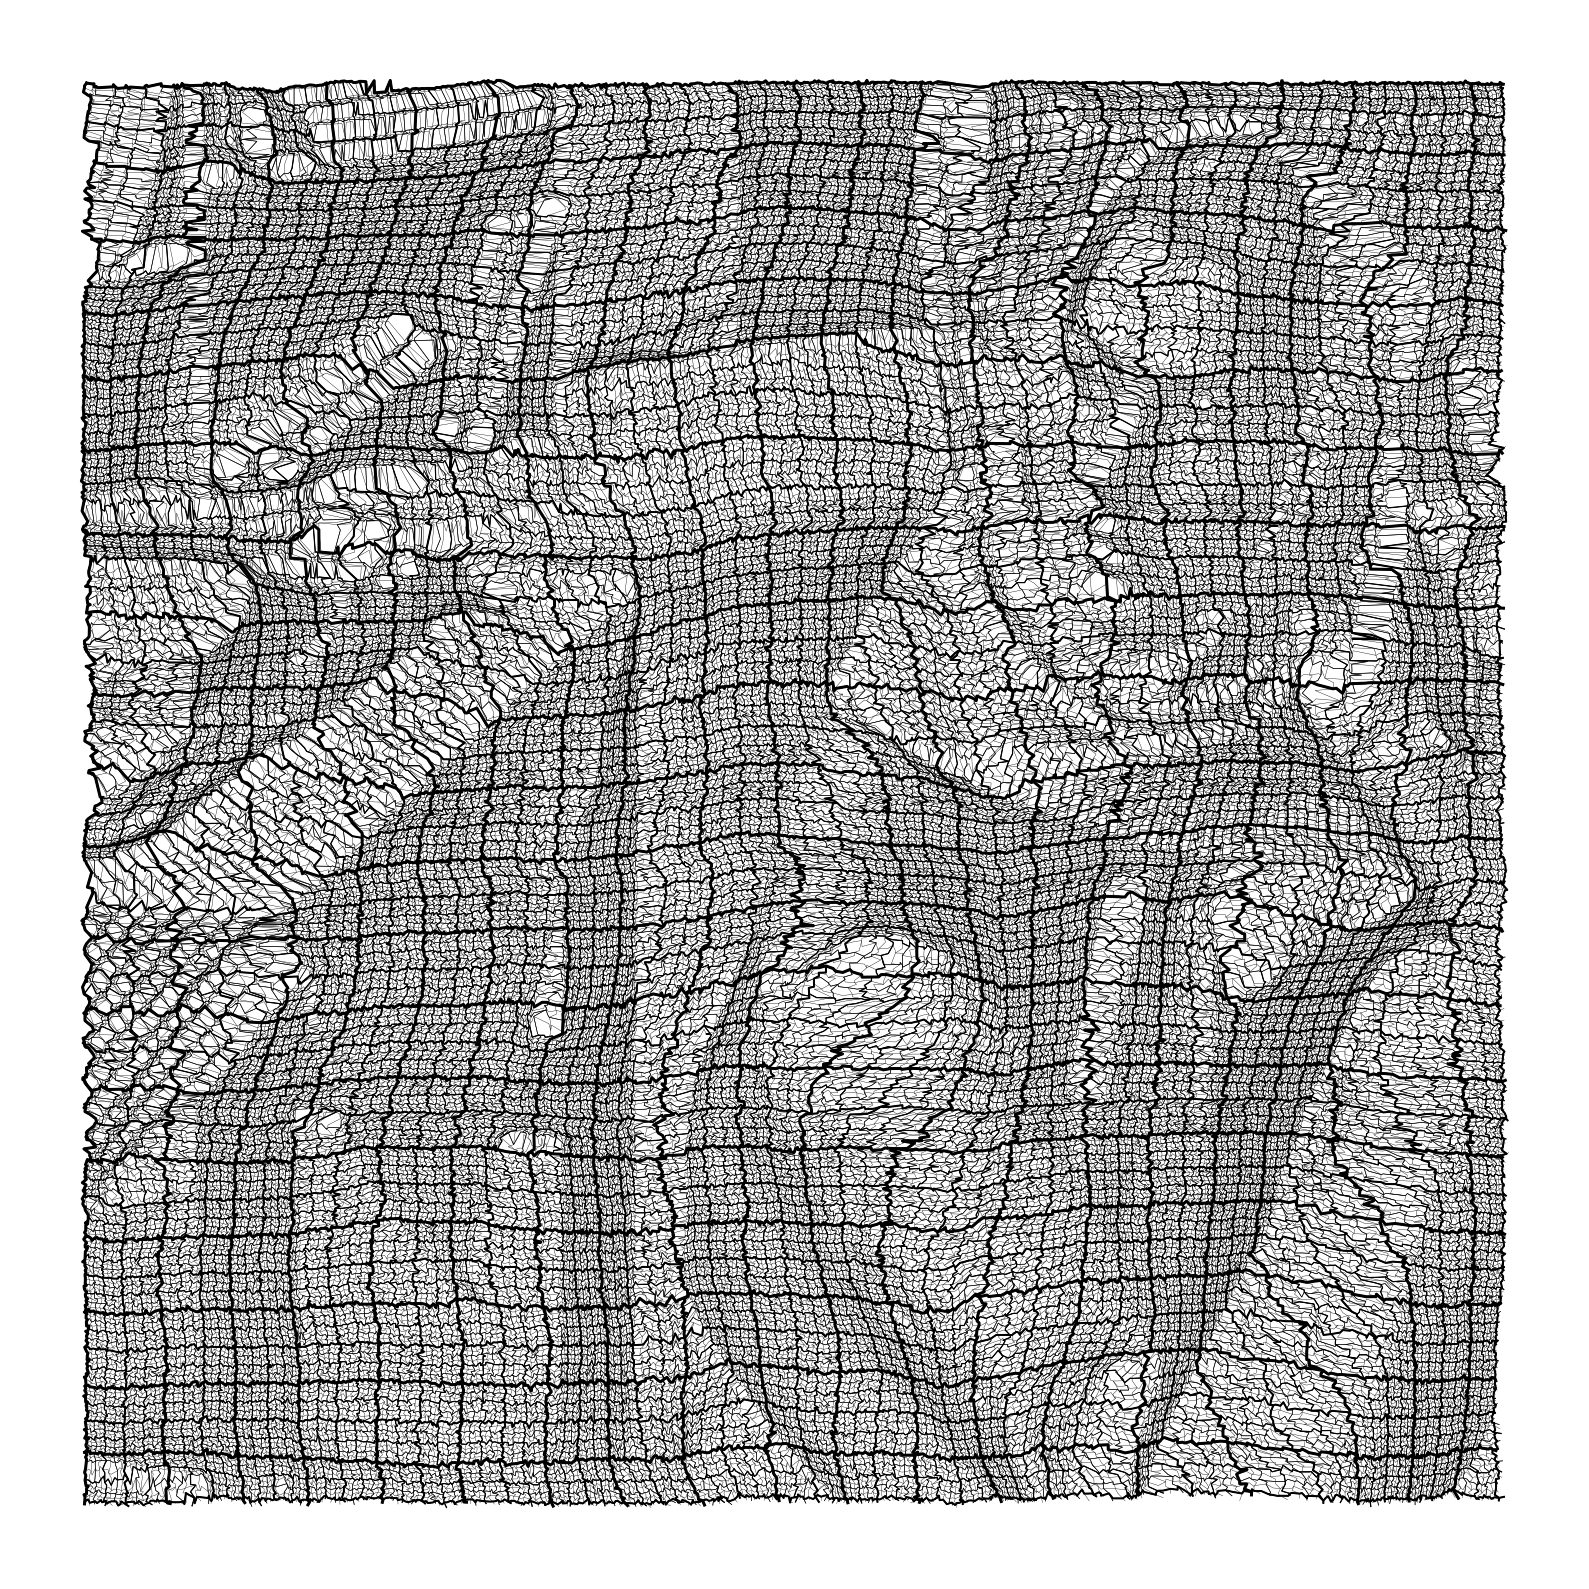
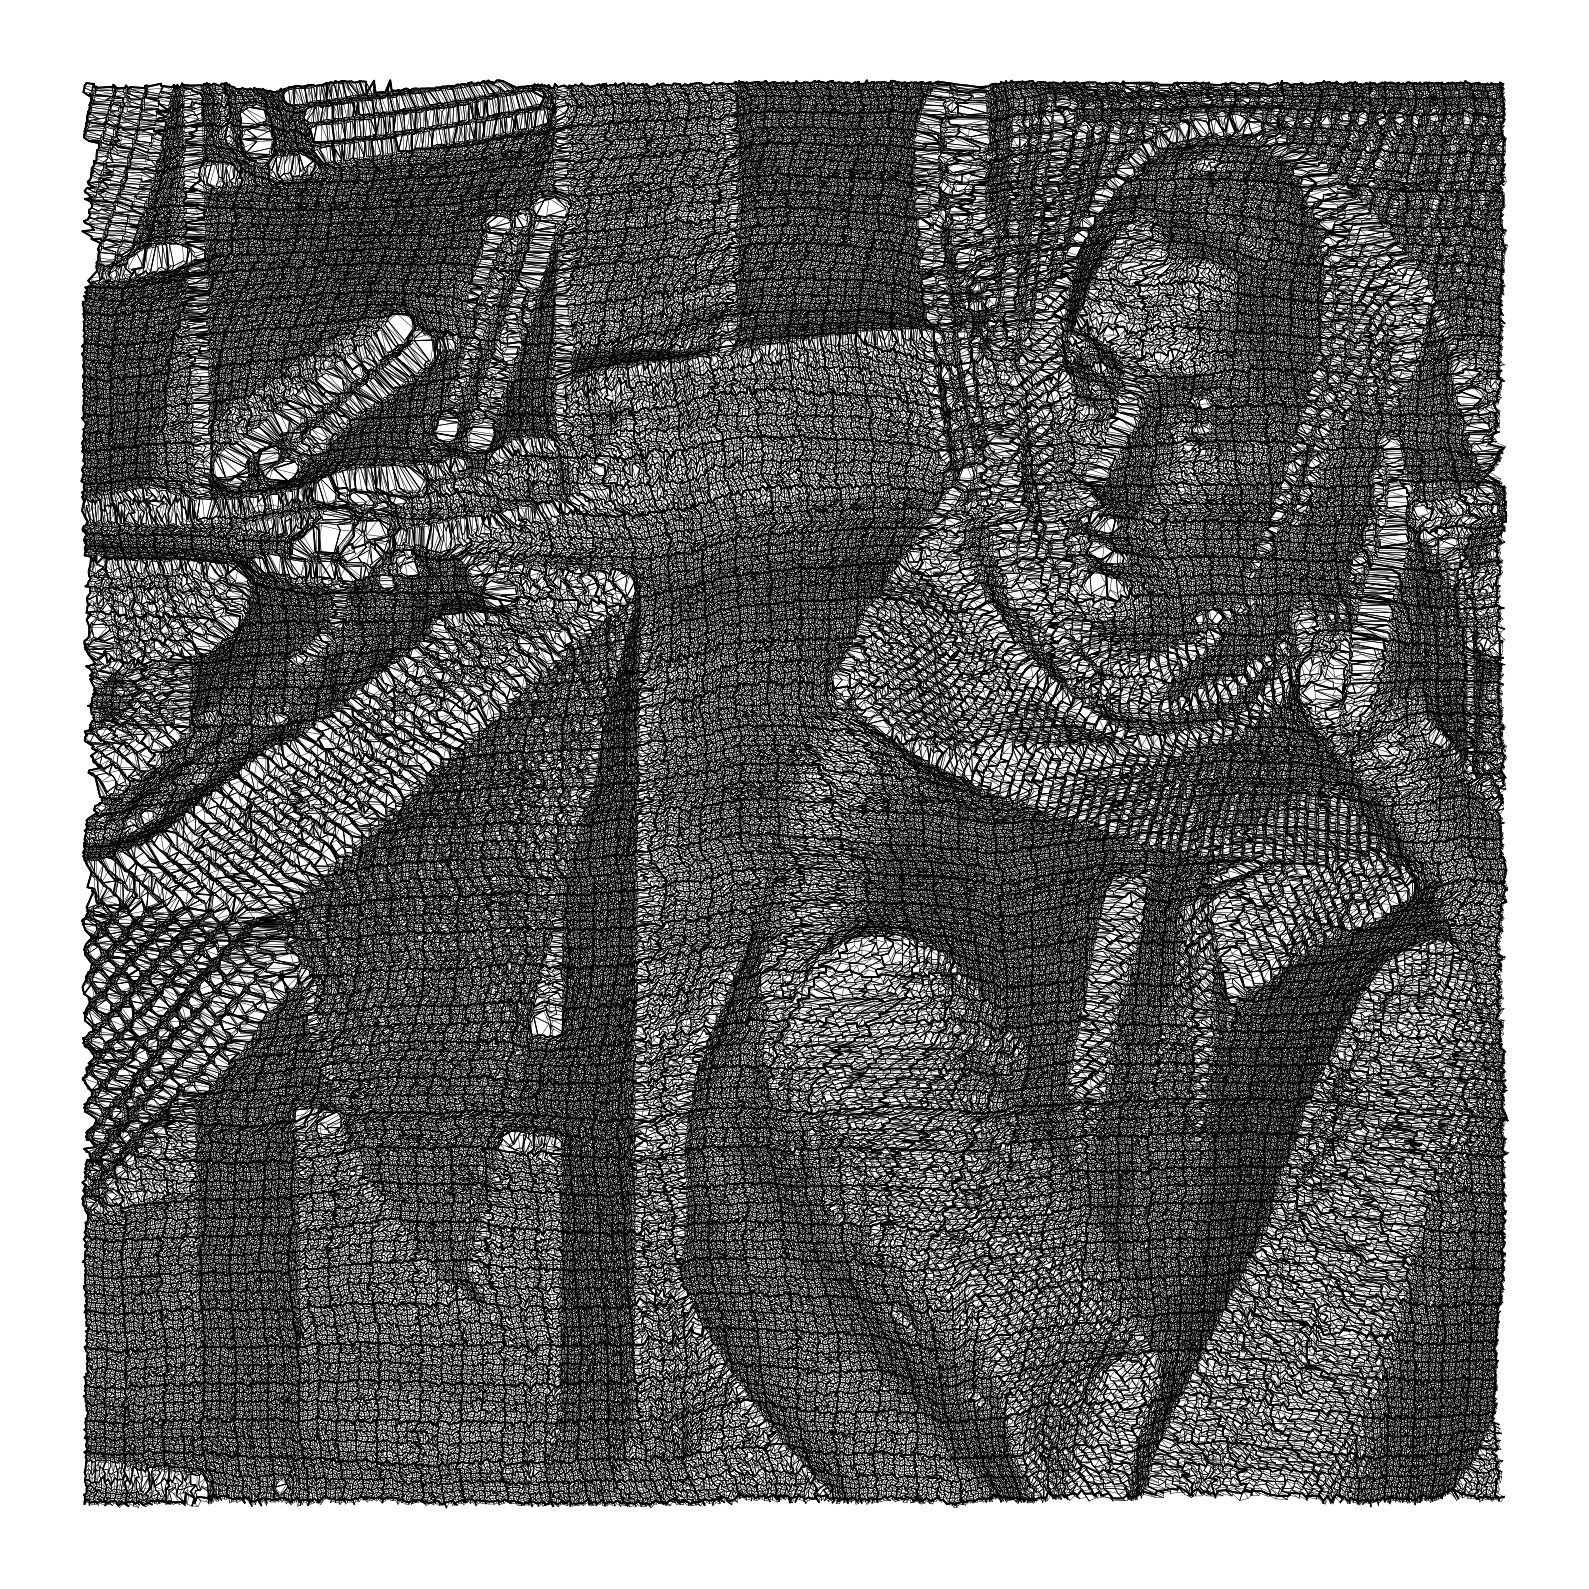
new style

diff --git a/README.md b/README.md
@@ -69,12 +69,6 @@ You can use the built-in checkerboard to verify neighborhood preservation:
 
 ```python
 sqnet = SquareNet(IJ_=(400, 400))
-sqnet.fit("ring")
-sqnet.checkerboard()
-```
-
-```python
-sqnet = SquareNet(IJ_=(400, 400))
 sqnet.fit("france") #require !pip install shapely
 sqnet.checkerboard()
 ```
